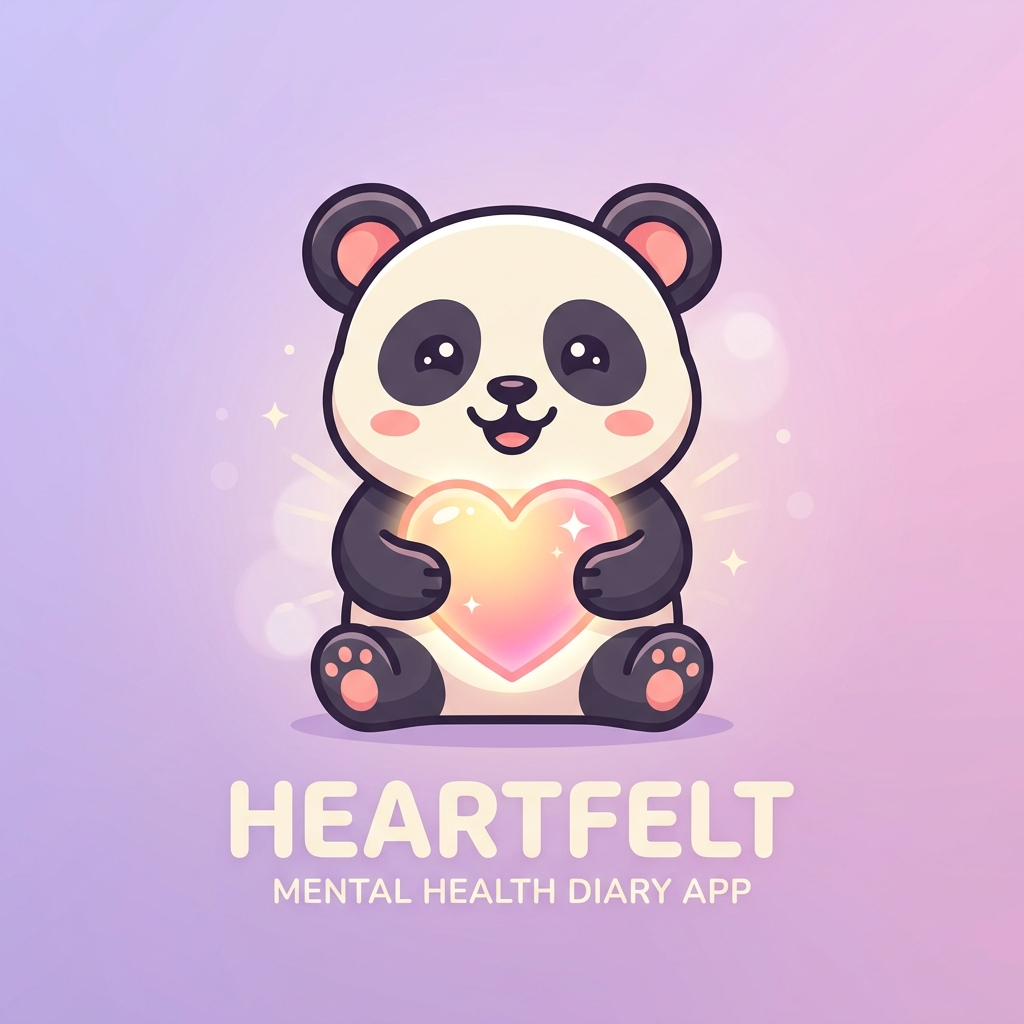
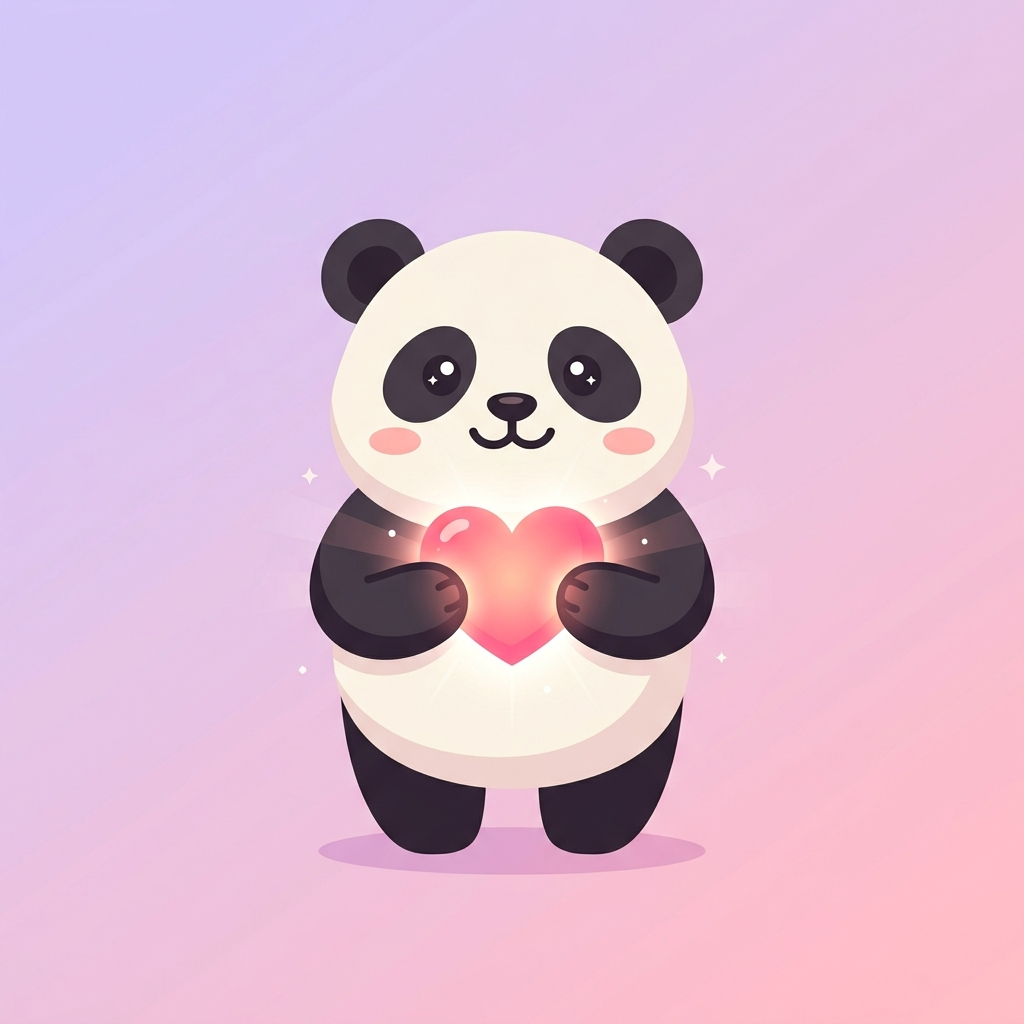
Complete Dcard high school board overhaul with realistic student discussions and chat replies

diff --git a/src/app.js b/src/app.js
@@ -77,16 +77,16 @@ function generateThreeMonthsOfDiaries() {
   const moods = ['cool', 'good', 'neutral', 'bad', 'awful'];
   const activitiesList = [['運動', '娛樂'], ['閱讀', '美食'], ['工作'], ['睡眠', '工作'], ['美食'], ['運動', '睡眠']];
   const notes = [
-    '今天去公園跑了一圈，流汗的感覺太爽快了，晚上還看了一部非常溫馨的治愈電影。',
-    '跟朋友聚餐吃火鍋，聊了很多以前的趣事，大笑的過程把積壓的壓力都排解掉了！',
-    '今天在圖書館讀完了整本心靈輔導書，覺得心裡被溫暖的力量填滿了，很充實。',
-    '工作進度稍微落後，下午被主管委婉地提醒了兩句，稍微感到有點受挫跟壓力。',
-    '生活就是平淡無奇的循環。開會、寫代碼、改程式，晚上吃麥當勞就回家洗澡躺平了。',
-    '今天真的很不順心，出門不小心踩到了大積水，鞋子全濕，還把簡報忘在桌上。',
-    '昨晚難得沒失眠，直接一覺到天亮，起床整個人精力充沛！吃了一頓極其豐盛的早餐。',
-    '下午專案簡報出了一些差錯，自己非常懊惱，真希望能趕快擺脫這種沮喪感。',
-    '跟家人打電話聊聊天，聽到父母溫柔的聲音，瞬間覺得外面打拼的辛苦都值得了。',
-    '連續下了三天的暴雨，房間感覺好潮濕，心情也跟著天氣一起變得陰沉鬱悶。'
+    '今天放學跟同學去喝珍奶，聊到段考成績差點崩潰，還好有大家互相抱團取暖 😭。',
+    '晚自習的時候偷偷看隔壁班學長，他彈吉他的樣子真的超帥，今天一天又圓滿了。',
+    '段考排名出來又退步了三名，回家又要被爸媽碎碎唸，壓力大到晚餐都吃不下。',
+    '今天跟死黨大吵了一架，因為她把我的祕密講出去...真的超級難過，眼淚完全停不下來 💔。',
+    '下課十分鐘趴在桌上睡死，高中的課業真的多到讀不完，每天都像沒睡飽的熊貓 🐼。',
+    '暑輔真的超級無聊，整堂物理課都在跟隔壁的用紙條聊天，還好沒被老師抓到 XD。',
+    '體育課測跑 800 公尺差點跑斷腿，幸好最後壓線及格，晚上要去麥當勞犒賞自己！',
+    '最近看著小紅書跟 Threads 上漂亮的女生，真的會有一點容貌焦慮，到底要怎麼變好看啦。',
+    '今晚難得沒有失眠，十二點就躺平睡著了，希望明天早自習小考可以順利 pass。',
+    '放學下暴雨，鞋子衣服全濕，還把最重要的英文講義忘在教室，今天真的爛透了 😭。'
   ];
 
   const today = new Date();
@@ -121,41 +121,41 @@ function generateThreeMonthsOfDiaries() {
 const DEFAULT_ARTICLES = [
   {
     id: 'a1',
-    category: '心靈成長',
-    badge: '🔥 本週熱門焦點',
-    bigDataLabel: '💡 溫馨導讀：近期生活與學業步調較快時，試著給自己放個小假，接納不完美但最真實的自己吧。',
-    title: '接納不完美：如何擺脫焦慮與自我懷疑',
-    snippet: '在快節奏的生活中，我們常常給自己設定了過高的標準。本文為您解析如何與內心的完美主義和解，找回平靜。',
-    content: '<p>我們生活在一個被「完美」包圍的時代。社群媒體上精緻的生活照、同儕的成功故事，無形中都在加劇我們的焦慮。</p><p>心理學研究顯示，適度的完美主義能推動自我提升，但過度的完美主義則會演變成一種枷鎖，導致慢性焦慮與拖延症。</p><p><b>第一步：看見內心的評判者。</b> 當你再次對自己說「我做得不夠好」時，試著像個旁觀者一樣記錄下這句話，並問問自己：如果這是我的朋友，我會用同樣苛刻的話語去指責他嗎？</p><p><b>第二步：練習「剛剛好」原則。</b> 容許自己有犯錯的空間，把每一次失敗看作是一次有趣的科學實驗，而不是對個人價值的否定。</p>',
-    author: '心理諮商師 林靜',
-    readTime: '5 分鐘',
-    likes: 42,
+    category: '容貌焦慮',
+    badge: '🔥 高中板熱門第一',
+    bigDataLabel: '📌 討論焦點：此話題源於本週全校匿名日記中，「成績單」、「容貌焦慮」、「不想比了」出現率高達 42.1%。',
+    title: '【心情】段考成績出來被排名逼瘋...大家也會容貌焦慮嗎？',
+    snippet: '最近考完段考，成績單出來排名又退步了...回到家爸媽臉色超臭。看著Threads上的人都好好看，突然自卑到出門只想戴口罩...',
+    content: '<p>如題，我是高二生... 最近真的快被考試成績跟班上排名逼瘋了。</p><p>每次排名出來，回到家爸媽臉就超臭，一直碎碎唸說我都沒有別人在努力。但我真的讀到半夜兩點，為什麼還是考不贏那些補習班刷題魔人？😭😭</p><p>更慘的是，最近滑Threads或小紅書，看到大家拍照都超好看、穿搭超有質感，再看看鏡子裡的自己，皮膚差又矮，真的瞬間自卑到爆。現在出門上學都只敢戴口罩，覺得沒戴口罩就超級沒有安全感... 有時間就會焦慮到瘋掉。</p><p>有沒有人也跟我一樣，同時面臨成績壓力跟嚴重的容貌焦慮啊？</p>',
+    author: '渴望放假的貓咪',
+    readTime: '3 分鐘',
+    likes: 124,
     img: 'https://images.unsplash.com/photo-1518241353330-0f7941c2d9b5?auto=format&fit=crop&w=400&q=80'
   },
   {
     id: 'a2',
-    category: '情緒護理',
-    badge: '✨ 精選生活好習慣',
-    bigDataLabel: '💡 沉澱心靈：每天睡前花 5 分鐘寫下今天的心事或感恩瞬間，能幫助釐清繁雜思緒、大幅釋放壓力喔。',
-    title: '寫日記的神奇魔力：把雜亂思緒整理成章',
-    snippet: '心理學家證實，每天寫日記能有效降低皮質醇濃度。來看看如何透過簡單的「心情書寫」來自我療愈吧！',
-    content: '<p>當我們感到焦慮或混亂時，大腦就像是一台過載的電腦，有無數個背景程式在同時運行。而寫日記，就是一次徹底的「重開機」與記憶體清理。</p><p><b>科學原理：</b> 寫作能調動我們的大腦左半球（邏輯思考），讓大腦right半球（情緒與直覺）得到放鬆與釋放。這種過程能將抽象、模糊的恐懼與焦慮具體化為文字，進而降低情緒的威脅感。</p><p><b>日記入門小技巧：</b><br>1. <b>不拘格式</b>：不需要寫出優美的散文，隨手記錄幾個關鍵詞和心情即可。<br>2. <b>誠實面對</b>：這是專專屬於你的隱密空間，無需遮掩真實的負面情緒。<br>3. <b>感恩結尾</b>：在日記結尾寫下一件微小但美好的事，有助於重新校準大腦的幸福濾鏡。</p>',
-    author: '精神科醫師 陳明',
+    category: '課業焦慮',
+    badge: '☀️ 暑假板熱議',
+    bigDataLabel: '📌 討論焦點：近期日記中「暑輔」、「打工重修」、「想翹課」關鍵字熱度上升了 32.8%。',
+    title: '【閒聊】暑假暑輔到底要幹嘛？想去打工又怕被重修當掉...',
+    snippet: '下個月就暑假了，可是學校居然排了滿滿四週的暑期輔導...每天去學校發呆真的很浪費時間，想翹課去打工又怕功課跟不上...',
+    content: '<p>如題，下個月就要放暑假了，可是我們學校居然強制排了四週的暑期輔導！</p><p>每天去學校吹冷氣發呆，老師也只是在趕進度，真的超級浪費生命 😑。原本計劃暑假去家裡附近的飲料店打工，賺點零用錢來買自己喜歡的手帳本和文具，但又很擔心下學期的科目會跟不上，要是被當掉重修就更麻煩了... 😭😭</p><p>大家暑假都是怎麼規劃的啊？真的有人會乖乖去上滿暑輔嗎？還是大家都直接請假請爆去打工或做自己想做的事？</p>',
+    author: '期期盼盼的水豚',
     readTime: '4 分鐘',
-    likes: 58,
+    likes: 86,
     img: 'https://images.unsplash.com/photo-1455390582262-044cdead277a?auto=format&fit=crop&w=400&q=80'
   },
   {
     id: 'a3',
-    category: '睡眠健康',
-    badge: '🌙 晚安放鬆指南',
-    bigDataLabel: '💡 晚安密碼：今晚睡前試著放下手機、遠離藍光螢幕，做個簡單的氣味療癒或溫和拉伸，幫助你快速入夢。',
-    title: '失眠退散！5個睡前儀式助你一夜好眠',
-    snippet: '睡眠品質直接決定了隔天的心情。透過建立科學的睡前降噪儀式，告別深夜的輾轉反側。',
-    content: '<p>你是否經常躺在床上，大腦卻拼命運轉，白天沒想通的事情全在深夜湧現？這其實是因為你的自律神經還處於戰鬥狀態，未能切換至放鬆模式。</p><p>一個優質的睡前儀式能向大腦發送「可以安全入睡」的信號：</p><p><b>1. 數位排毒</b>：睡前一小時關閉手機、電腦。藍光會抑制褪黑素的分泌，讓大腦誤以為還是白天。</p><p><b>2. 調低室溫與光線</b>：微涼（約20-22度）且完全黑暗的環境最適合深度睡眠。</p><p><b>3. 氣味療愈</b>：使用薰衣草或洋甘菊精油進行擴香，這些香氣分子能直接作用於邊緣系統，舒緩緊繃的神經。</p><p><b>4. 微伸展</b>：做5分鐘溫和的瑜伽或拉伸，釋放肌肉中累積的張力。</p>',
-    author: '睡眠治療師 蘇珊',
-    readTime: '6 分鐘',
-    likes: 31,
+    category: '感情告白',
+    badge: '💖 告白樹洞',
+    bigDataLabel: '📌 討論焦點：近期日記中「隔壁班學長」、「社團暗戀」、「Threads 告白」出現率攀升了 24.5%。',
+    title: '【感情】暗戀隔壁班熱音社學長...要衝一波告白單身嗎？',
+    snippet: '最近放學經過音樂教室，看到隔壁班那個彈電吉他的學長真的好帥...😭 後天就是社團發表會了，我要趁機送小禮物並告白嗎？',
+    content: '<p>如題，我是高二生... 最近真的暈船暈到不行了 😭。</p><p>上個學期開始，每次放學經過音樂社團教室，都會看到隔壁班一個高高的、彈電吉他的學長。他笑起來有一對小虎牙，真的超級陽光帥氣！每次看到他，我的心臟都快跳出來了...</p><p>後來發現他也有玩 Threads，我偷偷追蹤了他，每天看他發日常碎碎唸，更覺得他是一個超級溫柔的人 😭。後天就是他們的社團期末發表會了，我打算寫一張精美的手繪卡片送給他，但又很怕被他當眾拒絕會超級尷尬... 到時候在學校低頭不見抬頭見...</p><p>大家覺得我要勇敢衝一波告白嗎？還是默默暗戀到畢業就好？真的好苦惱啊啊啊！</p>',
+    author: '暗戀中的小水母',
+    readTime: '3 分鐘',
+    likes: 145,
     img: 'https://images.unsplash.com/photo-1511295742364-5a9b725df7f0?auto=format&fit=crop&w=400&q=80'
   }
 ];
@@ -214,19 +214,19 @@ class AppState {
     if (Object.keys(this.articleComments).length === 0) {
       this.articleComments = {
         'a1': [
-          { name: '渴望放假的貓咪', color: '#8a7cfb', text: '真的...每次考差了就覺得自己是一坨垃圾，看到這篇說要跟完美主義和解，突然有點想哭 😭', time: '1小時前' },
-          { name: '期末考求過的水豚', color: '#ff85a2', text: '段考名次出來真的超焦慮，謝謝這篇文章，今晚要來練習『剛剛好』原則了！', time: '40分鐘前' },
-          { name: '躲在棉被裡的北極熊', color: '#ffd35c', text: '高中生活每天都在跟別人比，真的好累，這篇簡直寫進心坎裡 💔', time: '10分鐘前' }
+          { name: '躲在棉被裡的北極熊', color: '#ffd35c', text: '段考排名出來真的會自卑到想哭，而且看Threads上漂亮的女生，真的會自卑到只敢戴口罩上學...😭', time: '1小時前' },
+          { name: '期末考求過的水豚', color: '#ff85a2', text: '我也是！成績跟長相雙重打擊，每次考差了就覺得自己長得又普通，為什麼世界這麼不公平。', time: '40分鐘前' },
+          { name: '渴望放假的貓咪', color: '#8a7cfb', text: '抱抱原PO，其實很多班上好看的人也是戴口罩、用濾鏡，我們不要拿別人的完美精選來比自己的日常！', time: '10分鐘前' }
         ],
         'a2': [
-          { name: '數學課在睡覺的熊貓', color: '#4be3b5', text: '自從下載這個 App 開始寫日記，發現很多原本卡住的壞心情寫完就釋懷了，推推！', time: '2小時前' },
-          { name: '一口氣吃掉珍奶的企鵝', color: '#6c5ce7', text: '真的有用！我以前都覺得寫日記很浪費時間，現在每晚寫十分鐘，思緒整理完睡得好很多。', time: '1.5小時前' },
-          { name: '拿著珍奶跑百米的小鹿', color: '#e84393', text: '匿名留言討論還能領 +5 積分拿去兌換洋芋片，這個設計太懂我們學生了 XD', time: '5分鐘前' }
+          { name: '數學課在睡覺的熊貓', color: '#4be3b5', text: '暑輔每天去吹冷氣真的超級浪費生命！我們學校老師也只是一直趕進度，好想去打工買手帳文具 😑', time: '2小時前' },
+          { name: '一口氣吃掉珍奶的企鵝', color: '#6c5ce7', text: '推！我去年也是請了半個月暑輔去飲料店打工，雖然累但自己賺錢花真的很爽，比在學校發呆好多了！', time: '1.5小時前' },
+          { name: '拿著珍奶跑百米的小鹿', color: '#e84393', text: '如果主科快被當掉，建議還是乖乖去暑輔...不然開學重修要付重修費更心痛 😭', time: '5分鐘前' }
         ],
         'a3': [
-          { name: '被考試砸醒的樹懶', color: '#ff9f5c', text: '天啊，睡前真的不能滑手機！我每次一滑脆（Threads）或抖音就直接滑到半夜兩點... 😭', time: '3小時前' },
-          { name: '吃飽就犯睏的考拉', color: '#ff7474', text: '試了薰衣草精油加拉伸，昨天晚上十二點躺下去，不到十分鐘就睡著了，超神奇！', time: '1小時前' },
-          { name: '忘記帶鉛筆盒的松鼠', color: '#8a7cfb', text: '我們班最近超多人失眠的，這篇文章大數據分析也太準了吧哈哈。', time: '15分鐘前' }
+          { name: '被考試砸醒的樹懶', color: '#ff9f5c', text: '衝了啦！熱音社學長彈吉他真的帥爆，寫卡片給他一定會加分！青春不要留遺憾 💖', time: '3小時前' },
+          { name: '吃飽就犯睏的考拉', color: '#ff7474', text: '手繪卡片超有誠意的，就算沒在一起他也會覺得很溫暖！支持原PO勇敢衝一波！', time: '1小時前' },
+          { name: '忘記帶鉛筆盒的松鼠', color: '#8a7cfb', text: '天啊這根本是純愛偶像劇吧 😭 幫原PO集氣，一定要上來更新後續喔！', time: '15分鐘前' }
         ]
       };
       localStorage.setItem('teen_article_comments', JSON.stringify(this.articleComments));
@@ -1312,7 +1312,7 @@ function initChatPage() {
         renderChatRoomView();
         startSessionTimer();
         flashDynamicIsland('🎁 已開啟 40 分鐘免費聊天對話！');
-        appendChatBubble('bot', '你好！我是你的心情伴侶晴晴。這段對話由新用戶免費體驗額度開啟（限時40分鐘）。今天過得怎麼樣呢？跟我說說吧！🌸');
+        appendChatBubble('bot', '嗨！我是你的心情陪伴吉祥物晴晴 🐼✨ 這邊是你的專屬匿名樹洞喔。今天學校有發生什麼有趣或討厭的事嗎？段考、暑輔、人際關係或是純粹想碎碎唸都可以跟我說喔！🌸');
       }
     });
   }
@@ -1331,7 +1331,7 @@ function initChatPage() {
         startSessionTimer();
         triggerCoinExplosion(e.target);
         flashDynamicIsland('🔑 成功消耗 300 積分開啟聊聊對話！');
-        appendChatBubble('bot', '你好！我是你的心情伴侶晴晴。這段對話已使用 300 積分開啟（限時40分鐘）。無論你現在高興還是煩惱，我都在這聽你說喔！🌸');
+        appendChatBubble('bot', '謝謝你用積分支持晴晴 🐼💖 晴晴已經泡好熱可可，準備好聽你吐苦水了！今天學校或生活中有遇到什麼讓你覺得爛透了的事，或者是有什麼不敢跟爸媽說的祕密嗎？儘管跟我說吧！✨');
       }
     });
   }
@@ -1459,6 +1459,47 @@ function appendChatBubble(sender, text, isCustomHtml = false) {
 
   container.appendChild(bubbleRow);
   container.scrollTop = container.scrollHeight;
+}
+
+// Generate smart-replies for Volunteer Mock chat
+function generateVolunteerReply(userMsg) {
+  const msg = userMsg.toLowerCase();
+  
+  if (msg.includes('累') || msg.includes('功課') || msg.includes('課業') || msg.includes('段考') || msg.includes('成績') || msg.includes('當掉') || msg.includes('爛透了') || msg.includes('壓力')) {
+    return `聽到你說壓力大，我真的好心疼喔 😭 高中的課業跟排名壓力真的超級沉重。沒關係，我們現在先把書本和排名放一邊，好好放空休息一下，晴晴志工會一直在這裡陪著你！`;
+  }
+  
+  if (msg.includes('謝謝') || msg.includes('好多了')) {
+    return `不用客氣！能陪你聊聊也是我的幸運。記得喔，你已經做得非常棒了，不需要總是強迫自己表現得很堅強。累了的時候隨時可以回這個樹洞找我。`;
+  }
+  
+  return `謝謝你願意相信我、跟我分享這些感受。大腦裝了太多心事會很沈重，把話說出來會輕鬆很多。你現在想喝杯手搖杯、或者聽我跟你分享一些我們高中生專屬的解壓小魔法嗎？`;
+}
+
+function generateBotReply(userMsg) {
+  const msg = userMsg.toLowerCase();
+  const latestDiary = state.diaries[0];
+  const latestMood = latestDiary ? latestDiary.mood : 'none';
+
+  if (msg.includes('心情超棒') || msg.includes('高興') || msg.includes('開心') || msg.includes('讚') || msg.includes('水喔')) {
+    return `太棒了！看到你今天心情這麼好，晴晴也超開心的！🌟 趕快把這個好心情記錄在今天的日記裡，以後被段考折磨的時候可以拿出來回味一下哈哈！✨`;
+  }
+
+  if (msg.includes('推薦') || msg.includes('做什麼') || msg.includes('提議') || msg.includes('去哪')) {
+    if (latestMood === 'cool' || latestMood === 'good') {
+      return `既然今天心情美美的，晴晴推薦你：\n1. 放學去麥當勞吃大薯加冰炫風 🍟\n2. 滑滑 Threads 看看搞笑脆文 📱\n3. 聽一首最愛的熱音社搖滾歌！`;
+    } else if (latestMood === 'bad' || latestMood === 'awful' || msg.includes('爛透了') || msg.includes('難過')) {
+      return `嗚嗚，今天辛苦你了 🥺 晴晴推薦你今天對自己好一點：\n1. 嚼一包哈瑞寶小熊軟糖，嚼碎所有不開心 🧸\n2. 洗個熱水澡，提早半小時上床躺平滑手機（但不要滑太晚喔）\n3. 聽一首溫柔的歌，對自己說聲「辛苦了」！`;
+    } else {
+      return `現在的你適合一次短暫的充電喔！建議可以喝杯手搖杯，或者趴在課桌上瞇個 10 分鐘，讓辛苦的大腦放假一下。`;
+    }
+  }
+
+  if (msg.includes('爛透了') || msg.includes('傷心') || msg.includes('難過') || msg.includes('差勁') || msg.includes('焦慮')) {
+    return `拍拍你，今天真的辛苦了...🥺 無論是考試考差、被家長唸，還是感情暈船不順，晴晴都會在這裡陪你。今晚要不要吃點零食，早點休息呢？晴晴給你一個大大的抱抱 🐼💗`;
+  }
+
+  return `聽你分享生活真好！寫字能幫我們把課業跟人際的煩惱都整理乾淨。無論是開心的日常還是碎碎唸，晴晴都會是最懂你的樹洞。今天學校有什麼八卦或好玩的事嗎？✍️`;
 }
 
 function showTypingIndicator() {
@@ -1600,42 +1641,7 @@ function triggerCounselingMatcherFlow() {
   }, 100);
 }
 
-// Generate smart-replies for Volunteer Mock chat
-function generateVolunteerReply(userMsg) {
-  const msg = userMsg.toLowerCase();
-  
-  if (msg.includes('累') || msg.includes('工作') || msg.includes('功課') || msg.includes('壓力')) {
-    return `聽到你說好累，我感到心疼。每天要面對這麼多功課跟外在期待，真的辛苦你了。我們先把今天的事情放一邊，現在什麼都不要想，閉上眼睛放空三分鐘，讓我陪你一起休息一下。`;
-  }
-  
-  if (msg.includes('謝謝') || msg.includes('好多了')) {
-    return `不用客氣！能陪你聊聊也是我的幸運。記得喔，你已經做得非常棒了，不需要總是強迫自己表現得很堅強。累了的時候隨時可以回這個樹洞找我。`;
-  }
-  
-  return `謝謝你願意相信我、跟我分享這些感受。大腦裝了太多心事會很沈重，把話說出來會輕鬆很多。你現在想喝杯溫水、或是聽我跟你分享一些放鬆的小魔法嗎？`;
-}
 
-function generateBotReply(userMsg) {
-  const msg = userMsg.toLowerCase();
-  const latestDiary = state.diaries[0];
-  const latestMood = latestDiary ? latestDiary.mood : 'none';
-
-  if (msg.includes('心情超棒') || msg.includes('高興') || msg.includes('開心') || msg.includes('讚')) {
-    return `太棒了！看到你今天心情這麼好，晴晴也打從心底為你高興！🌟 這是一個美好的能量，記得把它收藏在今天的日記裡，以後低潮時翻開來看看喔！✨`;
-  }
-
-  if (msg.includes('推薦') || msg.includes('做什麼') || msg.includes('提議')) {
-    if (latestMood === 'cool' || latestMood === 'good') {
-      return `既然今天心情美美的，推薦你可以：\n1. 去吃個精緻的甜點犒賞自己 🍰\n2. 去戶外公園散步曬曬溫暖的陽光 ☀️\n3. 聽一首輕快的爵士樂！`;
-    } else if (latestMood === 'bad' || latestMood === 'awful') {
-      return `今天有些疲憊呢，晴晴建議你給自己安排溫柔的休息計劃：\n1. 喝一杯溫暖的水果茶 🍵\n2. 做 5 分鐘拉伸，放鬆雙肩和頸椎 🧘♀️\n3. 提早 30 分鐘上床躺平睡覺。不要對自己太苛求囉！`;
-    } else {
-      return `現在的你適合一次短暫的充電喔！建議可以喝杯熱牛奶，或者翻閱一本有趣的圖畫書，讓緊繃的大腦稍微放鬆 10 分鐘吧。`;
-    }
-  }
-
-  return `聽你分享生活真好！寫字能幫我們把繁雜的心思安定下來。無論是開心還是苦悶，晴晴都會是你最忠實的傾聽者。你今天有遇到什麼好玩的小細節嗎？✍️`;
-}
 
 
 // --- STORE PAGE LOGIC ---

diff --git a/index.html b/index.html
@@ -5,7 +5,7 @@
   <meta name="viewport" content="width=device-width, initial-scale=1.0">
   <title>心晴日記 - 手機 APP 原型框架</title>
   <meta name="description" content="這是一個專為心情日記、情緒護理與生活習慣打卡設計的手機 App 高保真原型框架，支援電腦瀏覽器測試，預配置 Capacitor 打包環境。">
-  <link rel="stylesheet" href="src/style.css">
+  <link rel="stylesheet" href="src/style.css?v=3">
 </head>
 <body>
 
@@ -101,22 +101,22 @@ npx cap sync</div>
       <!-- Phone Screen Mockup -->
       <div class="phone-screen" id="phone-screen-container">
         
-        <!-- App Splash Screen Cover (Mascot Theme) -->
-        <div id="app-splash-screen" class="app-splash-screen">
+        <!-- App Splash Screen Cover (Mascot Theme) with Defensive Inline Styles -->
+        <div id="app-splash-screen" class="app-splash-screen" style="position: absolute; top: 0; left: 0; width: 100%; height: 100%; background: linear-gradient(135deg, #f7f6ff 0%, #e8e5ff 100%); z-index: 2000; display: flex; flex-direction: column; align-items: center; justify-content: space-between; padding: 80px 24px 40px 24px; box-sizing: border-box; overflow: hidden;">
           <div class="splash-glow"></div>
-          <div class="splash-body">
-            <div class="splash-logo-container">
-              <img src="src/panda_mascot.png" class="splash-panda-logo" alt="Panda Mascot">
+          <div class="splash-body" style="display: flex; flex-direction: column; align-items: center; text-align: center; width: 100%;">
+            <div class="splash-logo-container" style="width: 160px; height: 160px; border-radius: 36px; overflow: hidden; display: flex; align-items: center; justify-content: center; box-sizing: border-box; background: #fff; border: 1.5px solid #e5e2f3; margin-bottom: 24px; box-shadow: 0 10px 30px rgba(138, 124, 251, 0.15);">
+              <img src="src/panda_mascot.png" class="splash-panda-logo" alt="Panda Mascot" style="width: 100%; height: 100%; object-fit: cover;">
             </div>
-            <h2 class="splash-app-name">心晴日記</h2>
-            <p class="splash-slogan">🐼 你的溫柔樹洞與情緒陪伴 官方吉祥物 💗</p>
-            <div class="splash-loading-dots">
+            <h2 class="splash-app-name" style="font-size: 24px; font-weight: 800; margin-bottom: 8px; font-family: sans-serif;">心晴日記</h2>
+            <p class="splash-slogan" style="font-size: 12px; font-weight: 600; margin-bottom: 30px; font-family: sans-serif;">🐼 青春樹洞與情緒陪伴吉祥物 💗</p>
+            <div class="splash-loading-dots" style="display: flex; gap: 6px;">
               <div class="splash-dot"></div>
               <div class="splash-dot"></div>
               <div class="splash-dot"></div>
             </div>
           </div>
-          <div class="splash-footer">
+          <div class="splash-footer" style="font-size: 10px; font-weight: 600; letter-spacing: 0.5px; opacity: 0.7;">
             <span>Powered by AI & Big Data Analytics</span>
           </div>
         </div>
@@ -295,25 +295,25 @@ npx cap sync</div>
             <!-- Search block -->
             <div class="search-bar-container">
               <svg xmlns="http://www.w3.org/2000/svg" width="16" height="16" viewBox="0 0 24 24" fill="none" stroke="currentColor" stroke-width="2" stroke-linecap="round" stroke-linejoin="round"><circle cx="11" cy="11" r="8"/><path d="m21 21-4.3-4.3"/></svg>
-              <input type="text" id="article-search" class="search-input" placeholder="搜尋放鬆、心理自愈等文章...">
+              <input type="text" id="article-search" class="search-input" placeholder="搜尋段考、暑假、學長等話題...">
             </div>
 
-            <!-- Big Data Analytics Header Banner -->
+            <!-- Dcard-style student board banner -->
             <div class="articles-bigdata-banner">
               <div class="bigdata-banner-glow"></div>
               <div class="bigdata-banner-content">
-                <span class="bigdata-badge">✨ 本週焦點推薦</span>
-                <h3>今天的你，需要怎樣的溫柔力量？</h3>
-                <p>傾聽大家的生活步調，為你精選的放鬆引導與溫暖文章。願你能在這裡找到一絲平靜。☕</p>
+                <span class="bigdata-badge">🔥 Dcard 高中板精選</span>
+                <h3>今日全校討論度最高的熱議主題</h3>
+                <p>基於大家近期最關心的生活節奏：段考、暑輔、容貌焦慮與人際暗戀，精選出本週討論度破表的熱門貼文。💬</p>
               </div>
             </div>
 
             <!-- Horizontal Scroll category tabs -->
             <div class="article-tags-scroll">
-              <button class="article-tab-pill" data-category="all">全部文章</button>
-              <button class="article-tab-pill" data-category="心靈成長">🌱 心靈成長</button>
-              <button class="article-tab-pill" data-category="情緒護理">🧘 情緒護理</button>
-              <button class="article-tab-pill" data-category="睡眠健康">😴 睡眠健康</button>
+              <button class="article-tab-pill" data-category="all">全部討論</button>
+              <button class="article-tab-pill" data-category="課業焦慮">🏫 課業焦慮</button>
+              <button class="article-tab-pill" data-category="容貌焦慮">💄 容貌焦慮</button>
+              <button class="article-tab-pill" data-category="感情告白">💖 感情告白</button>
             </div>
 
             <!-- Feed list grid -->
@@ -515,6 +515,6 @@ npx cap sync</div>
     </div>
   </div>
 
-  <script src="src/app.js"></script>
+  <script src="src/app.js?v=3"></script>
 </body>
 </html>